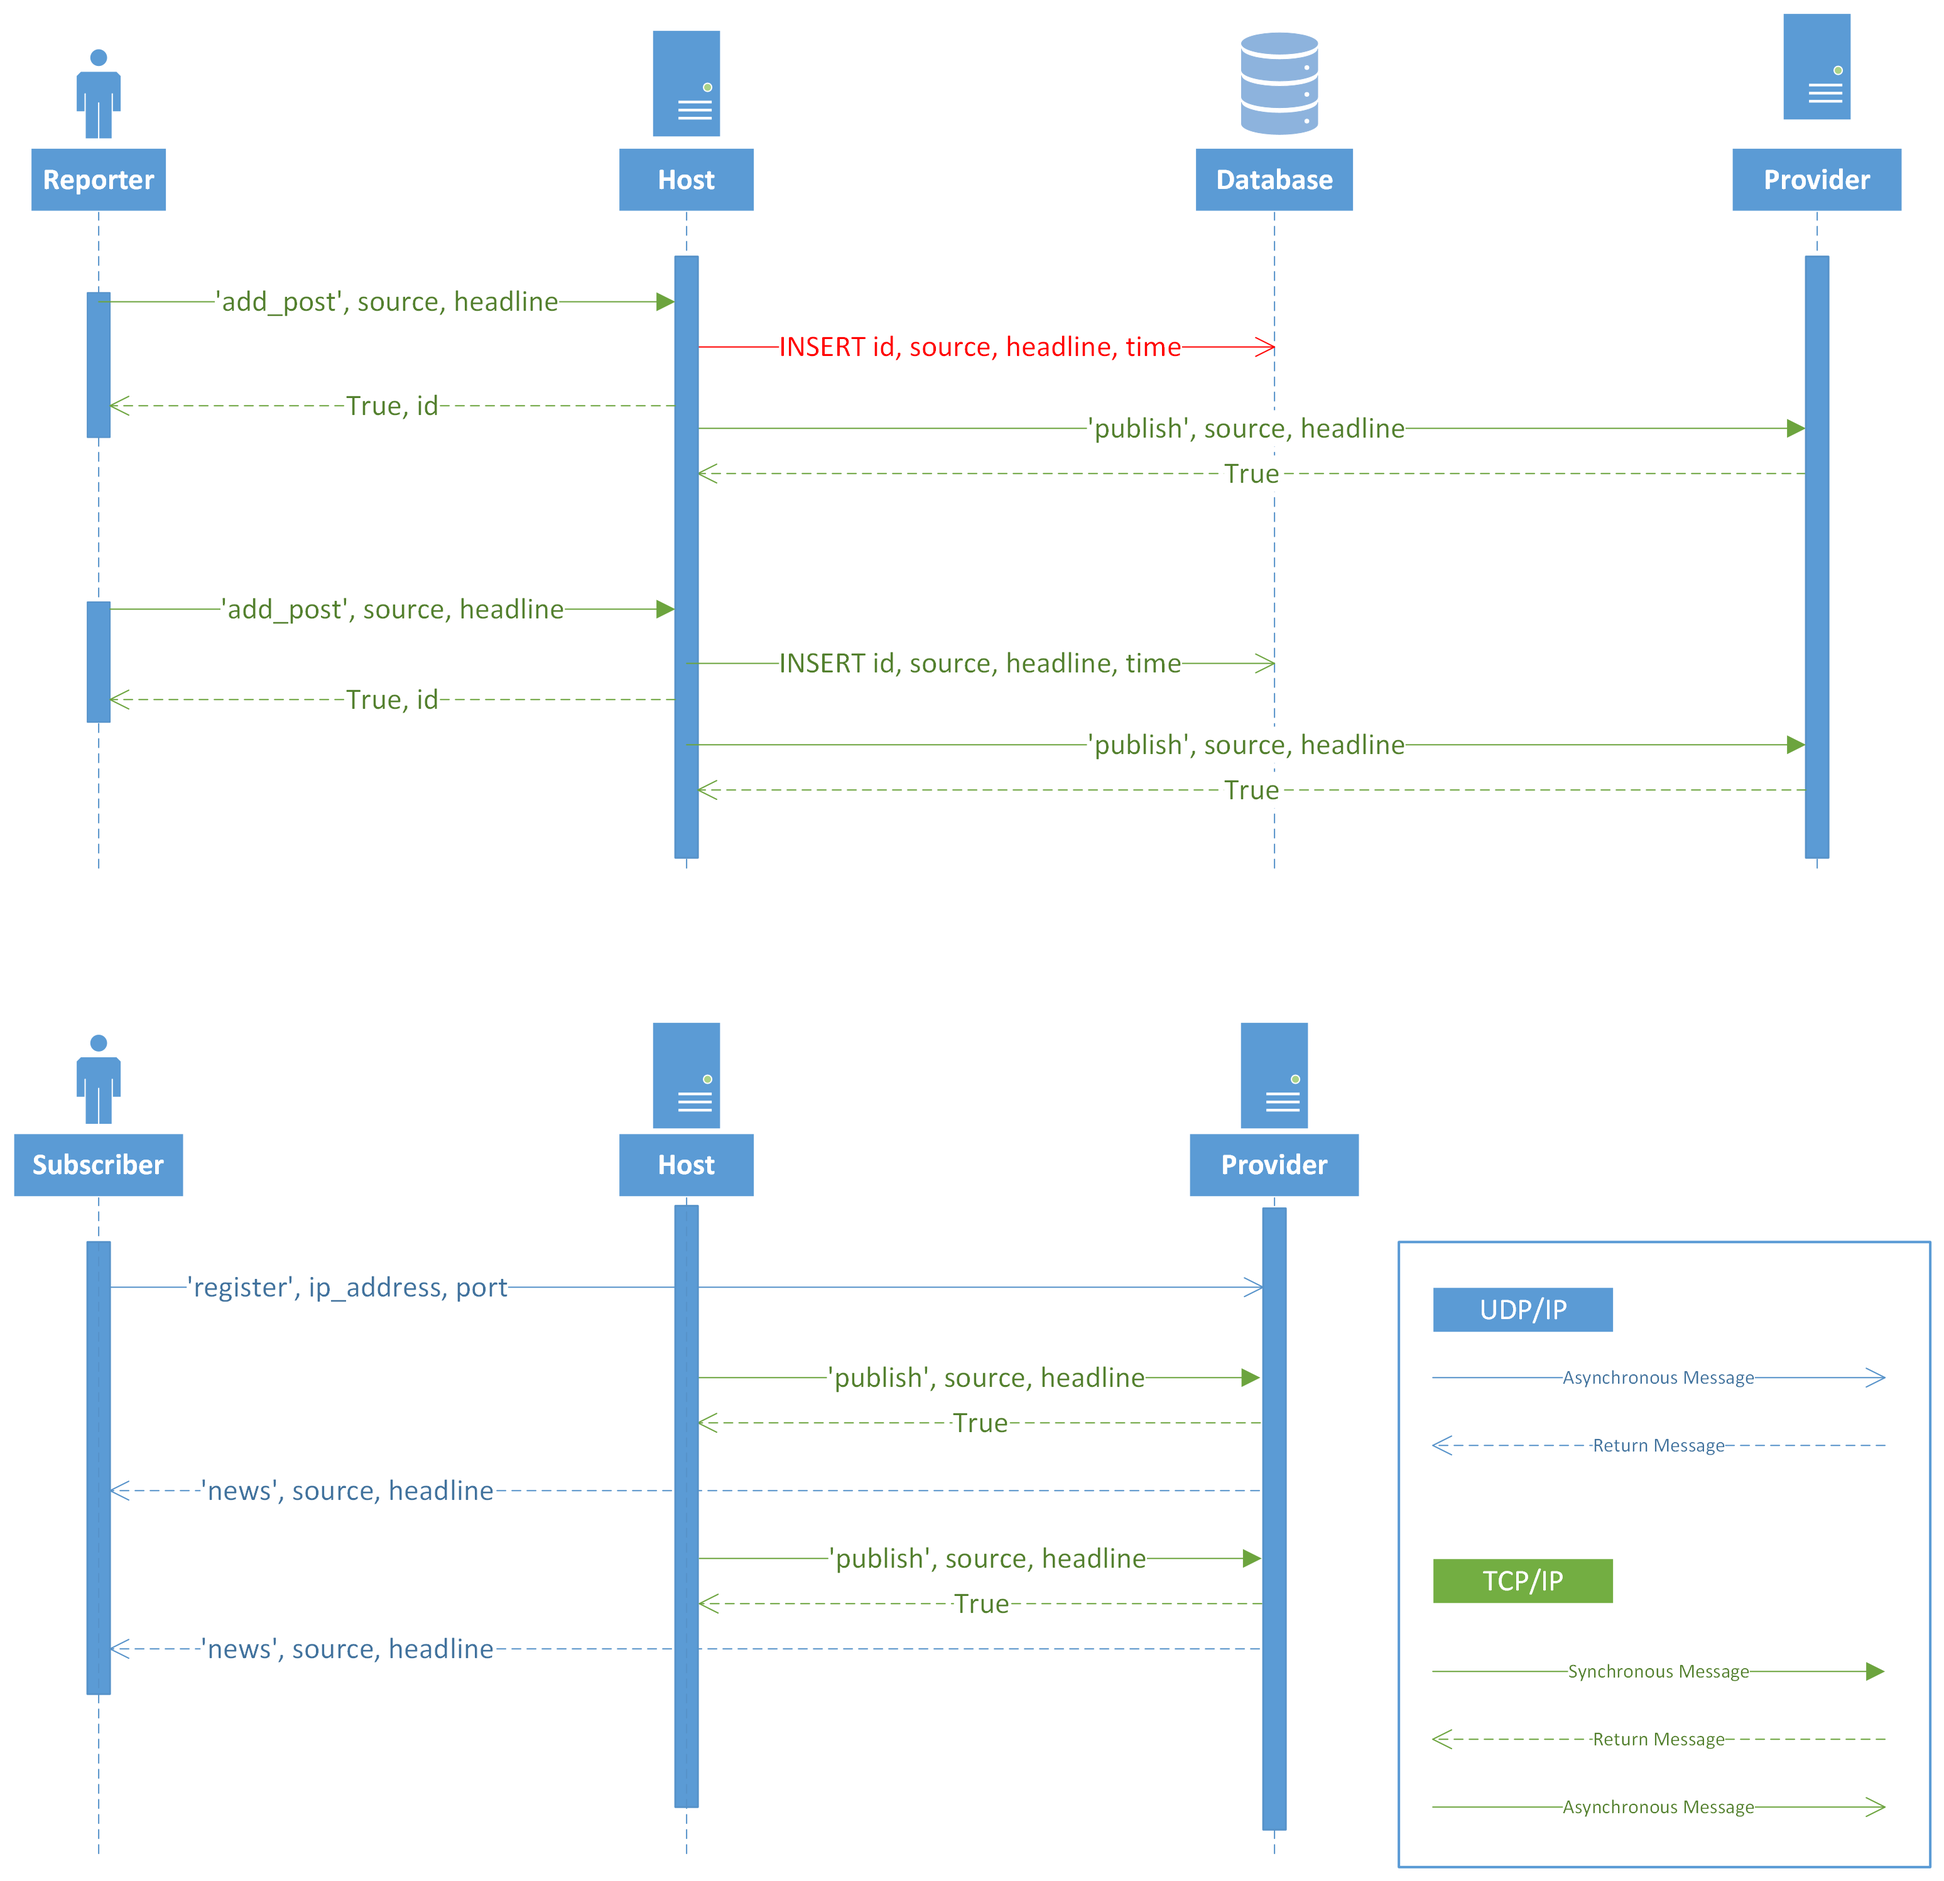
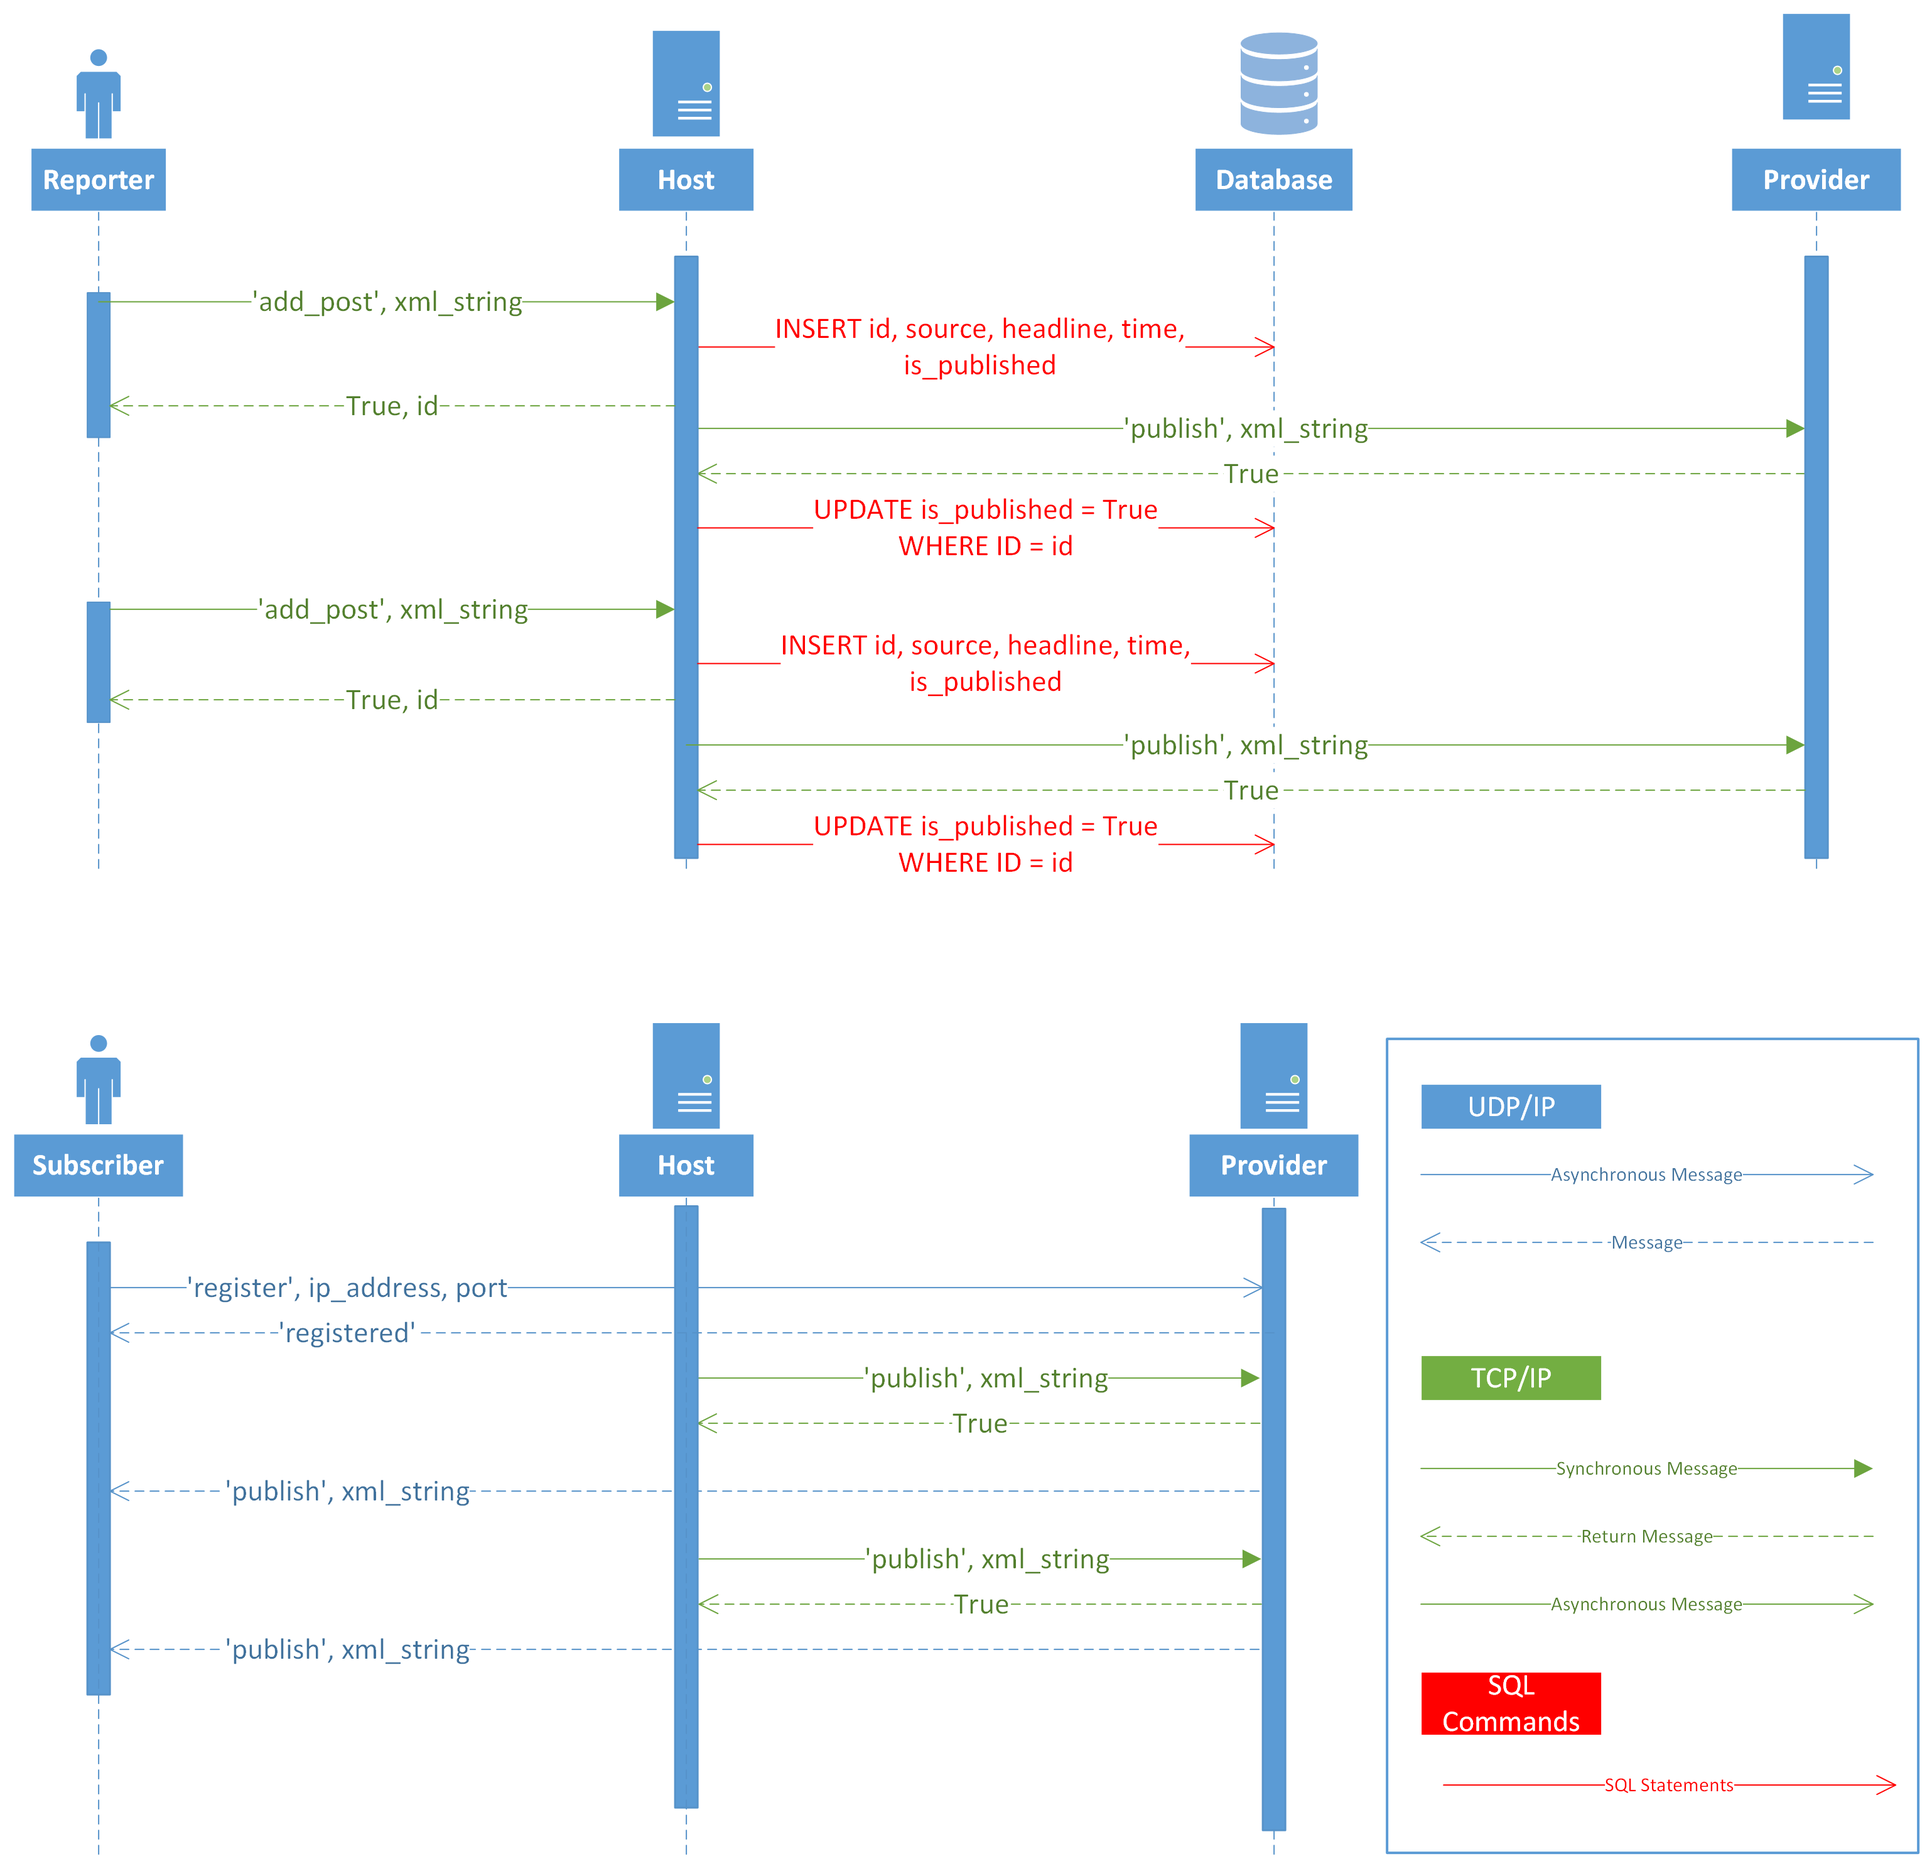
Updated sequence diagram and component description

diff --git a/README.md b/README.md
@@ -1,13 +1,19 @@
 # What is RSSFeed?
-It is a system simulates an RSS feed, that consists of 5 types of components:
-1) Reporters: Reporter nodes send news headlines in XML strings through a TCP connection to the news host.
-2) News Host: News Host stores data received from Reporters in a SQLite database and sends it to a Publisher using TCP. Additionally, the Host queues the data so it may resend it, if previous attempts were unsuccessful. If the Host goes down before sending the received news, it will query the database for unsent news, when it recovers from failure. 
-3) Publishers: Publisher listens for TCP connections from the news Host for the news. Upon receiving news from the Host, the Publisher sends the news data to its subscribers. The publisher registers subscribers by listening for them through a UDP socket.
+Our system simulates an RSS feed, that consists of 5 types of components: 
+
+1) Reporters: Reporter nodes send news headlines in XML strings through a TCP connection to the news host.  
+
+2) Host: News Host stores data received from Reporters in a SQLite database and sends it to a Publisher using TCP. Additionally, the Host queues the data so it may resend it if previous attempts were unsuccessful. If the Host goes down before sending the received news, it will query the database for unsent news, when it recovers from failure. 
+
+3) Publishers: Publisher listens for TCP connections from the news Host for the news. Upon receiving news from the Host, the Publisher sends the news data to its subscribers. The publisher registers subscribers by listening for them through a UDP socket.  
+
 4) Subscribers: A node wanting to become a Subscriber sends the Publisher their address, and then the Publisher adds it to a map. Finally, the publisher sends news to each address in this map. Each Subscriber parses the XML received from Publisher into the news source and headline and prints it on the Screen 
-5) SQLite Database: A simple database storing news received from reporters.
+
+5) SQLite Database: A simple database storing news received from reporters. 
 
 ![](images/RSSFeed.png)
 # How does RSSFeed work?
+Below are 2 sequence diagrams, the first highlighting communication from the perspective of the reporters. The second highlighting communication from the perspective of the subscribers. 
 
 ![](images/lab6_RSSFeed_Sequence_Diagram.png)
 
